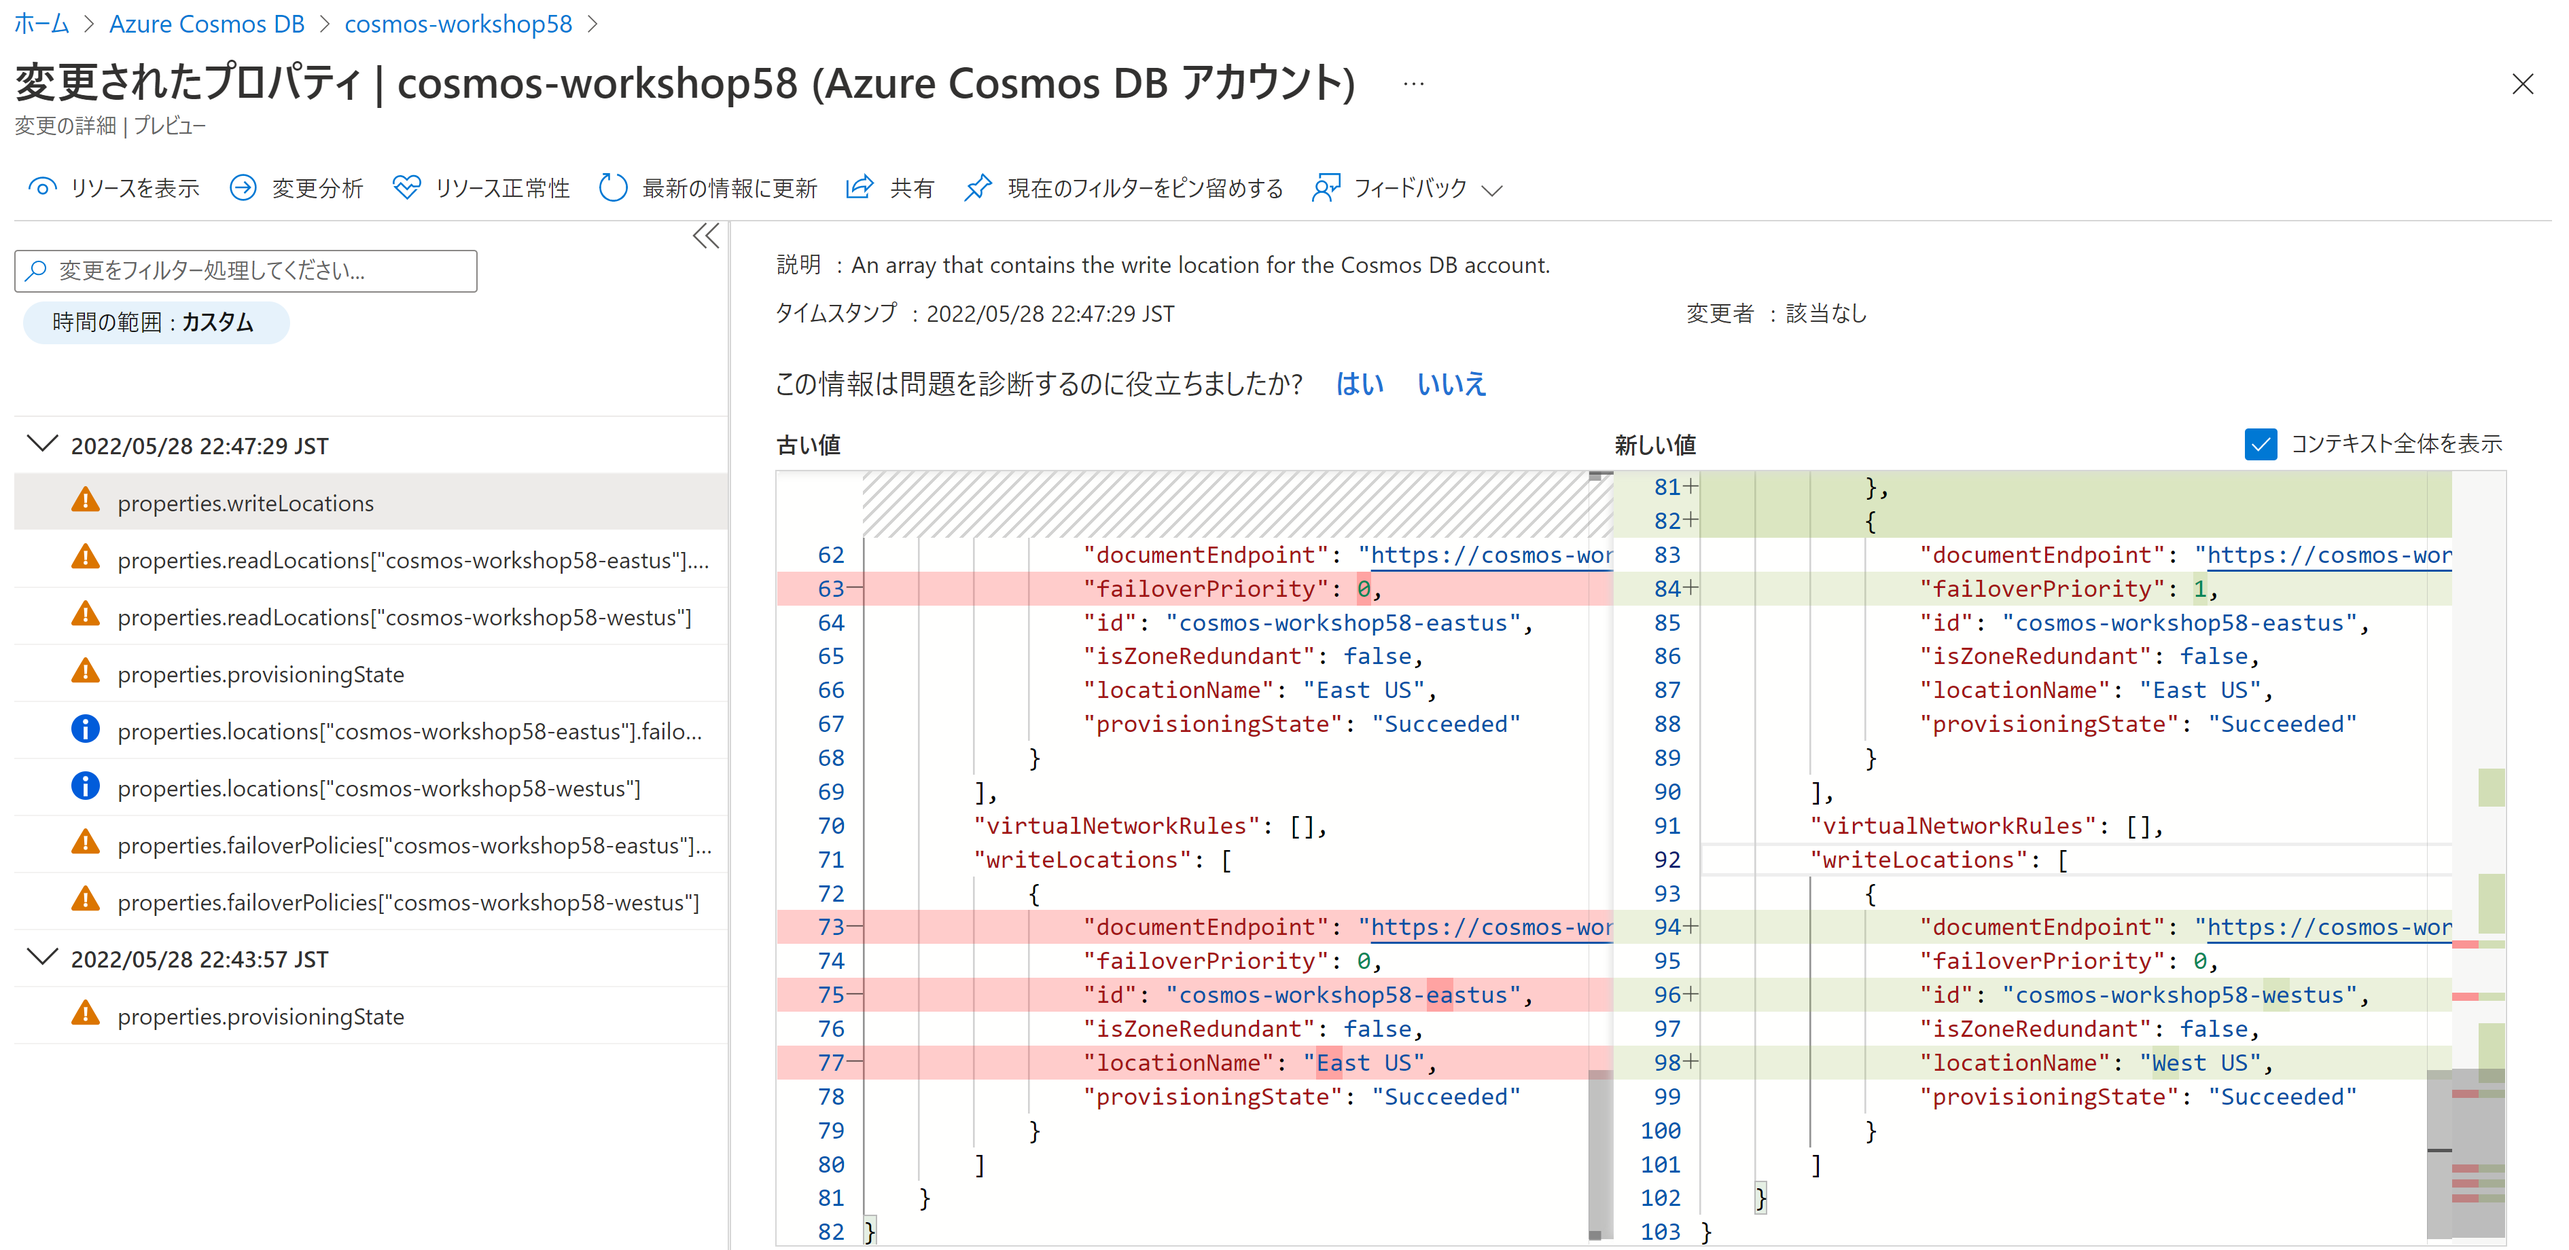
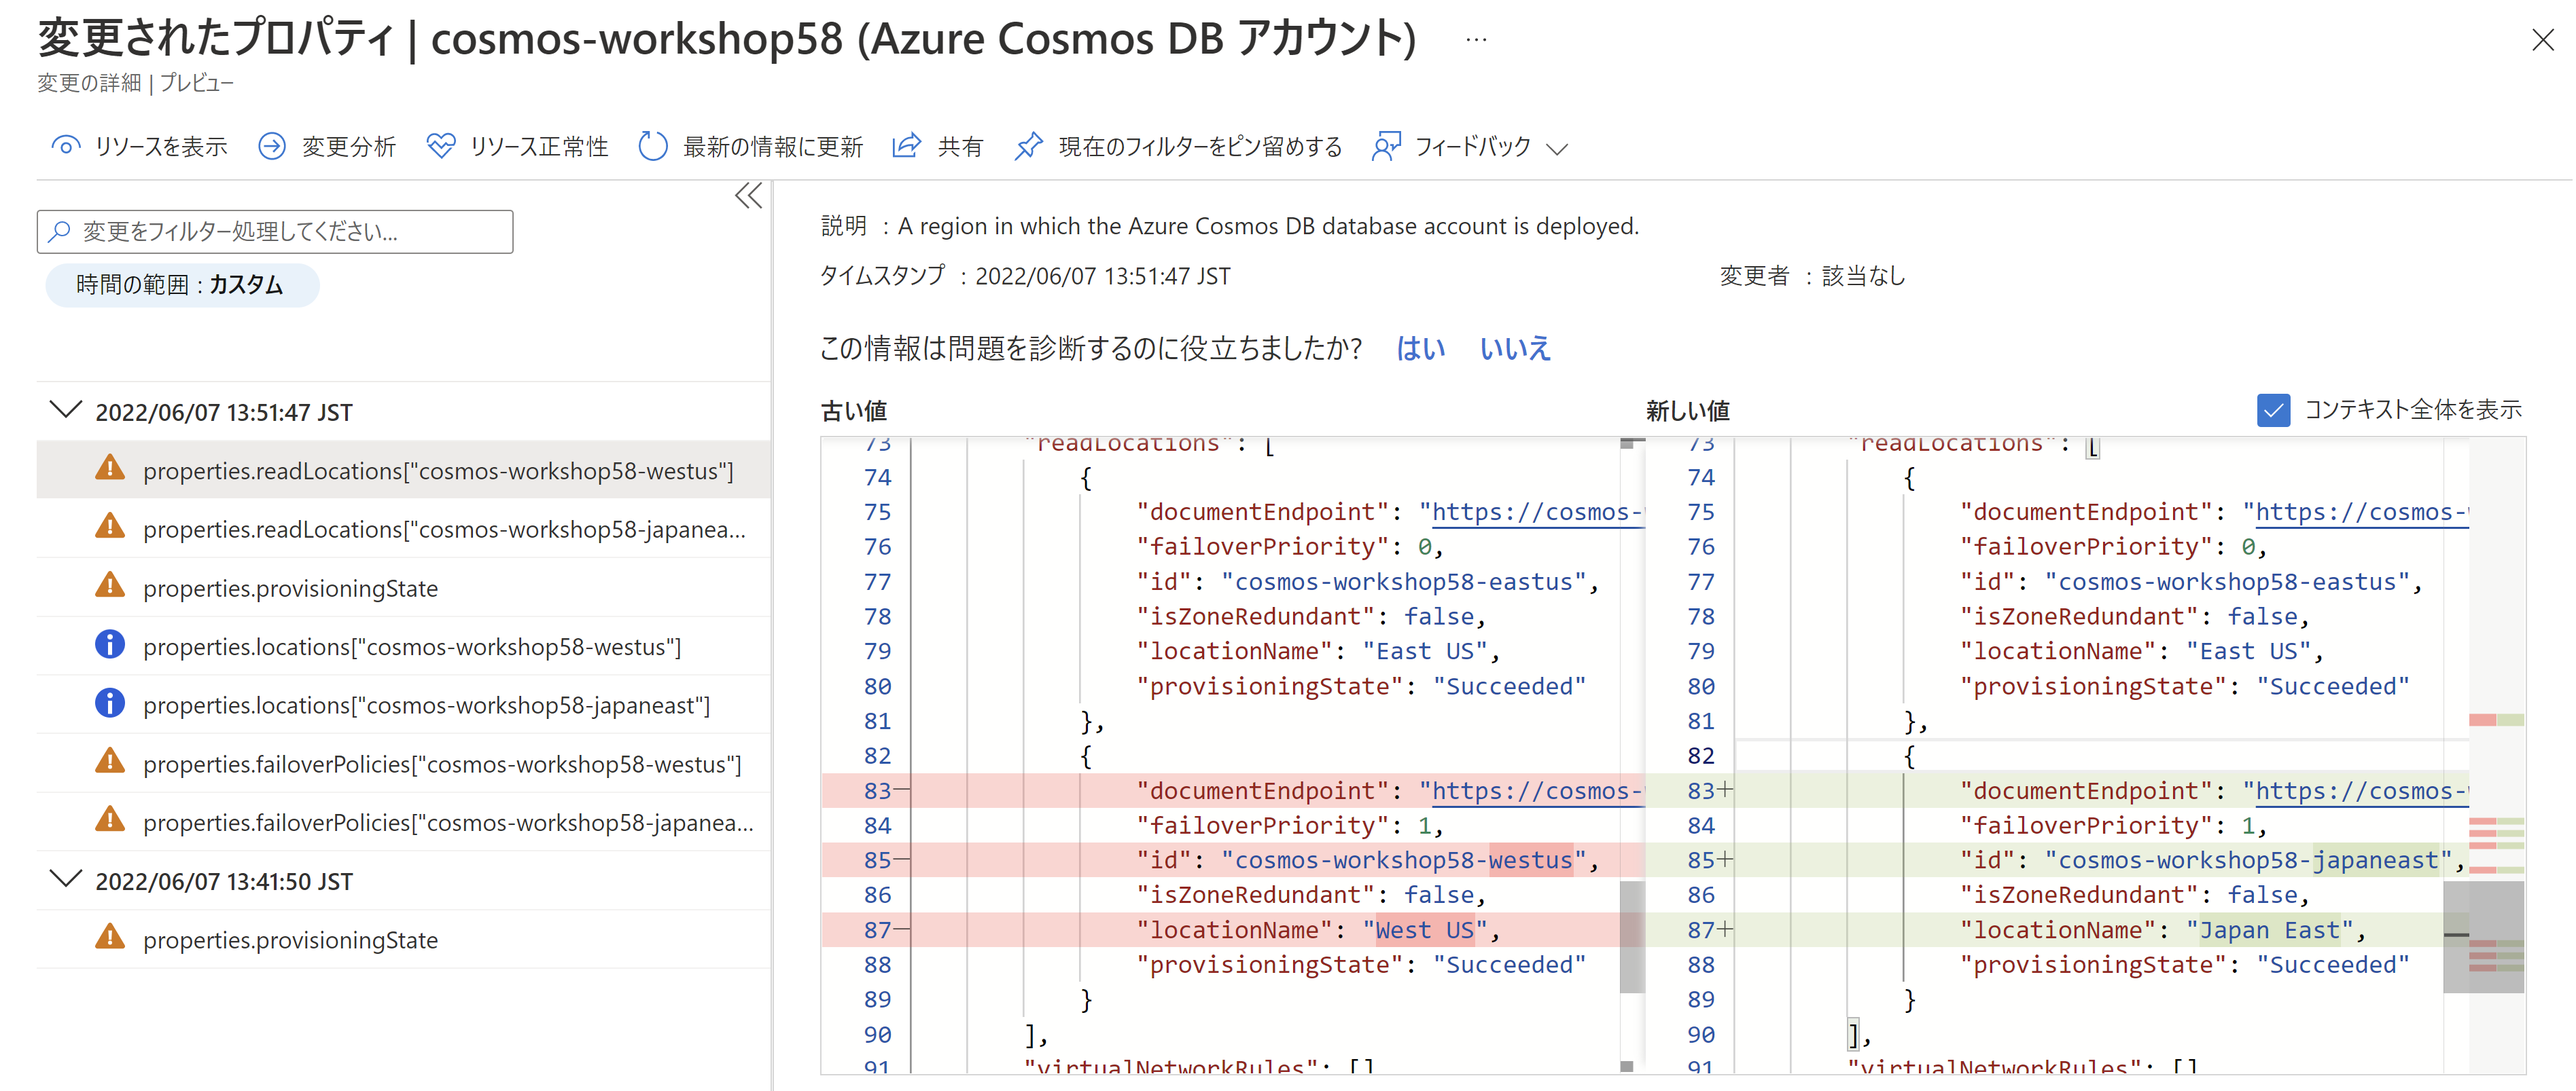
フェールオーバー先を Japan East に修正

Changed region(s): [[0.0, 0.0, 0.9987, 1.0], [0.6554, 0.2178, 0.749, 0.28], [0.5618, 0.6223, 0.6242, 0.6534]]

diff --git a/HOL-step-by-step-Chaos-Studio.md b/HOL-step-by-step-Chaos-Studio.md
@@ -88,7 +88,7 @@ June 2022
 
         - Duration (minutes): **10**
 
-        - readRegion: **West US**
+        - readRegion: **Japan East**
 
 　<img src="images/chaos-studio-8.png" />
 
@@ -142,9 +142,9 @@ June 2022
 
 　<img src="images/chaos-studio-12.png" />
 
-- **データをグローバルにレプリケートする**を選択し、読み取りリージョンに**West US**を追加し、**保存**をクリック
+- **データをグローバルにレプリケートする**を選択し、読み取りリージョンに**Japan East**が追加されていることを確認
 
-　<img src="images/chaos-studio-19.png" />
+<img src="images/replicate-db-3.png" />
 
 
 ### Task 4: 実験実行
@@ -181,6 +181,6 @@ June 2022
 
 　<img src="images/chaos-studio-21.png" />
 
-- **locationName** が **West US** に変更されていることを確認
+- **locationName** が **Japan East** に変更されていることを確認
 
 　<img src="images/chaos-studio-22.png" />
